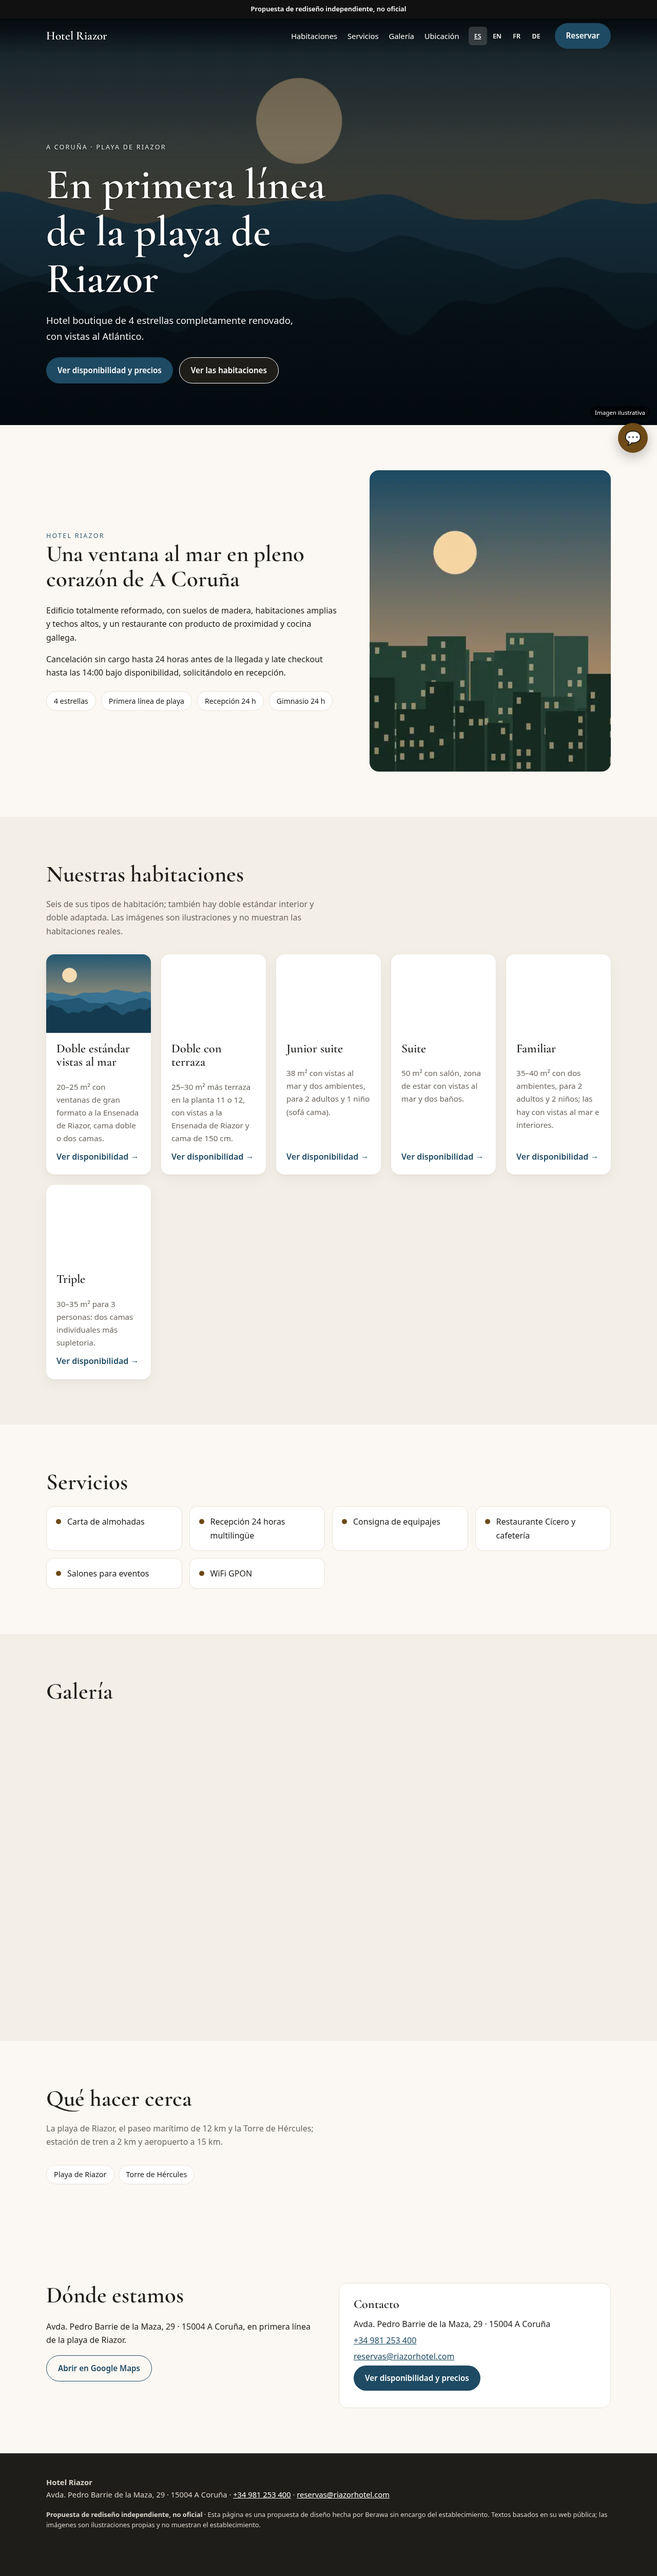
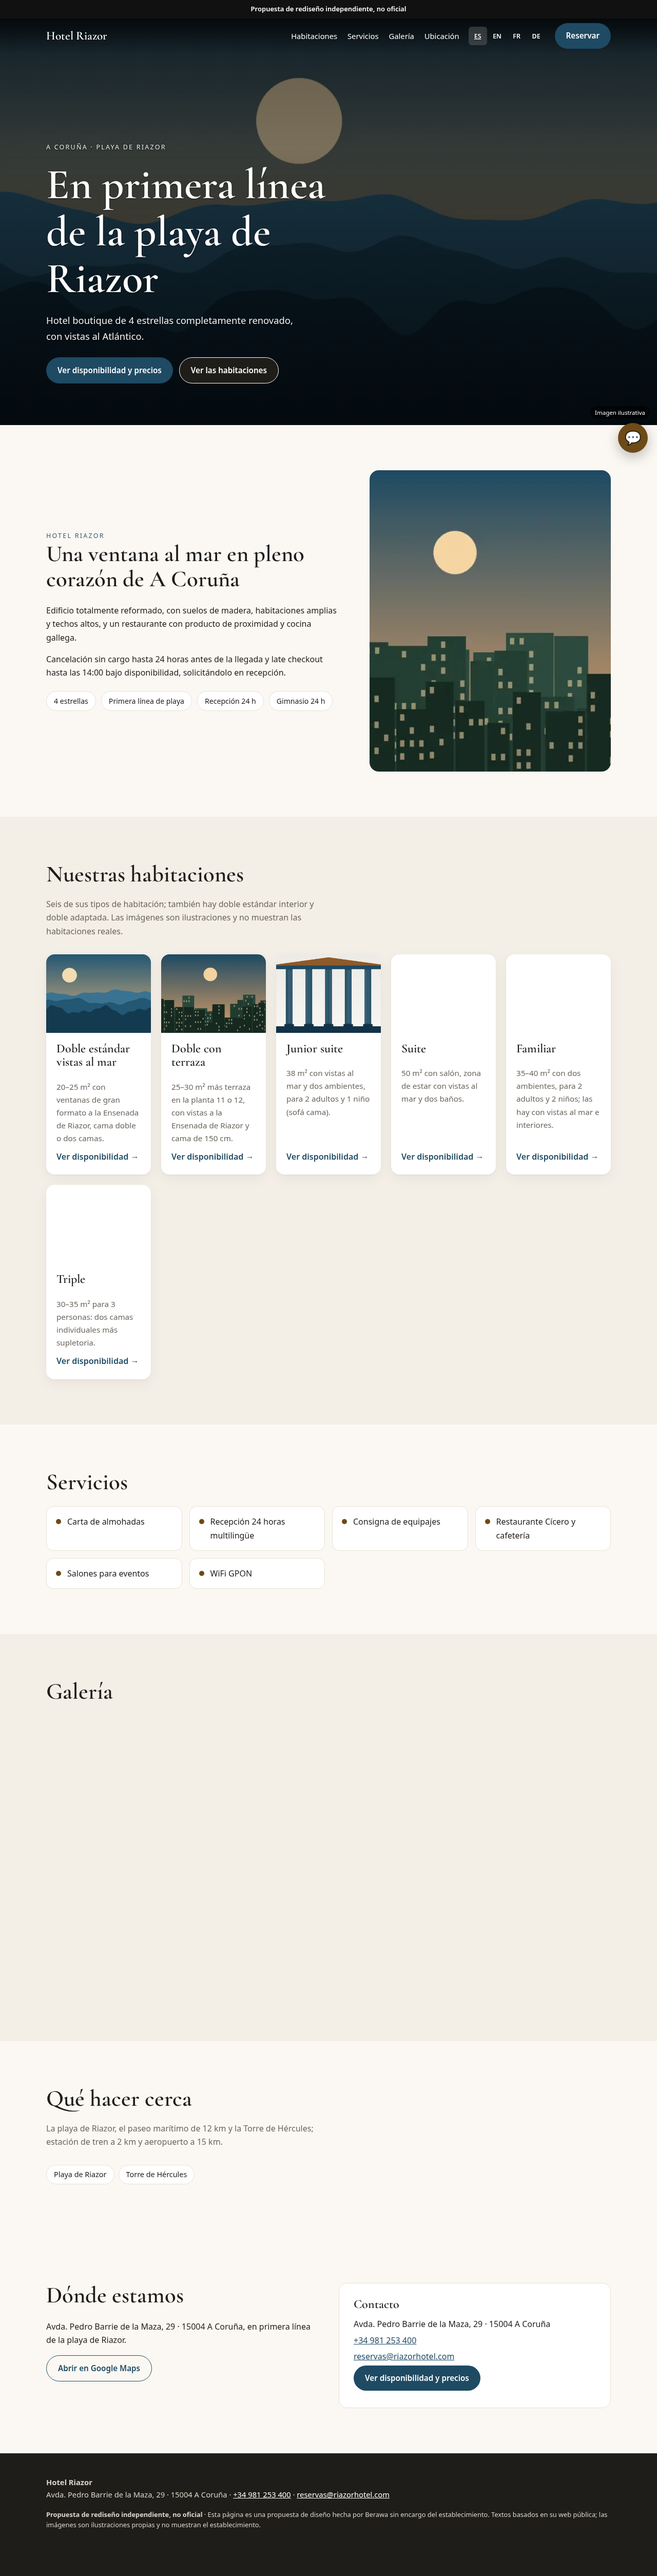
docs: informe QA Grok (A1-A11, C01-C16, Lighthouse) y evidencias

Changed region(s): [[0.2188, 0.3731, 0.5938, 0.4041]]

diff --git a/berawa/QA-GROK.md b/berawa/QA-GROK.md
@@ -2,9 +2,9 @@
 
 Autocontrol de fabricación (G04, A1–A11) y checklist C01–C16 (`docs/BERAWA-QA-CHECKLIST.md`) pasados por Grok antes del PR. **No es una auditoría independiente ni una aprobación**: Codex solo audita una muestra y nada se publica ni se envía sin visto bueno de Juan.
 
-- Rama: `demo/hotel-riazor-a-coruna` · HEAD de las pruebas: `d9e594a808b752a3782f88d24a75c1b915eac25e` · fecha: 30/10/2026 06:54 (Europe/Madrid)
+- Rama: `demo/hotel-riazor-a-coruna` · HEAD de las pruebas: `7b667060bb7adb2bb623734aad92e653baebb8ea` · fecha: 30/10/2026 07:04 (Europe/Madrid)
 - Entorno: Chromium de Playwright (instalado por `playwright install chromium` en el clon limpio), axe-core 4.14.0, Lighthouse 13.6.0 (3 pasadas, mediana).
-- Resultado: **QA_GROK_FAIL**
+- Resultado: **QA_GROK_PASS**
 - Negocio medido: Maps 4.3 (LEIDA, coincide tel, web) · web original: LCP > 4 s · titular ABELURIA HOTELES S.L. (persona jurídica, sin cadena).
 
 ## Controles A1–A11
@@ -20,12 +20,12 @@ Autocontrol de fabricación (G04, A1–A11) y checklist C01–C16 (`docs/BERAWA-
 | A8 | Trazabilidad: un commit por bloque; scripts y evidencias commiteados; cambios V1.0 aparte | **CUMPLE** | git log de la rama; berawa/V1.0-CAMBIOS.md |
 | A9 | Precios del chatbot: REGLA DE PRECIOS: CUMPLE | **CUMPLE** | qa/check_kb.txt, qa/check_kb-zip.txt |
 | A10 | Reproducibilidad: clon limpio + dependencias documentadas + run_checks --file en verde; rg /workspace vacío | **CUMPLE** | qa/clon-limpio.txt, qa/rg-workspace.txt |
-| A11 | git diff --check main...HEAD sin salida | **NO** | qa/git-diff-check.txt |
+| A11 | git diff --check main...HEAD sin salida | **CUMPLE** | qa/git-diff-check.txt |
 
 ## Checklist C01–C16
 | Código | Control | Resultado | Evidencia |
 |---|---|---|---|
-| C01 | Repositorio y SHA | **CUMPLE** | HEAD del clon limpio = d9e594a808b752a3782f88d24a75c1b915eac25e (el SHA final del PR es el del commit que añade este informe) |
+| C01 | Repositorio y SHA | **CUMPLE** | HEAD del clon limpio = 7b667060bb7adb2bb623734aad92e653baebb8ea (el SHA final del PR es el del commit que añade este informe) |
 | C02 | Identidad y fuentes | **CUMPLE** | nombre, teléfono, dirección y datos comerciales con cita literal en berawa/knowledge.json; titular persona jurídica sin cadena y nota de Maps en berawa/evidence/captacion.json |
 | C03 | Licencias | **CUMPLE** | asset_manifest.json: ilustraciones propias generadas (origin=generated) y fuente Cormorant OFL; ninguna imagen, logo ni vídeo del negocio |
 | C04 | Diseño personalizado y no suplantador | **CUMPLE** | paleta e ilustraciones propias, aviso «Propuesta de rediseño independiente, no oficial» arriba y en el pie, sin logo ni marca del negocio; revisión visual de qa/capturas/ |
@@ -53,4 +53,4 @@ SEO < 90 por el `noindex,nofollow` y el `robots.txt` con `Disallow: /` (is-crawl
 ## Límites
 - No probado en Safari ni Firefox ni con lector de pantalla.
 - Las imágenes son ilustraciones propias: no muestran el establecimiento y así se rotulan.
-- Tiempo del autocontrol automático (ZIP, clon limpio, Lighthouse, capturas): 7.2 min.
+- Tiempo del autocontrol automático (ZIP, clon limpio, Lighthouse, capturas): 7.9 min.
